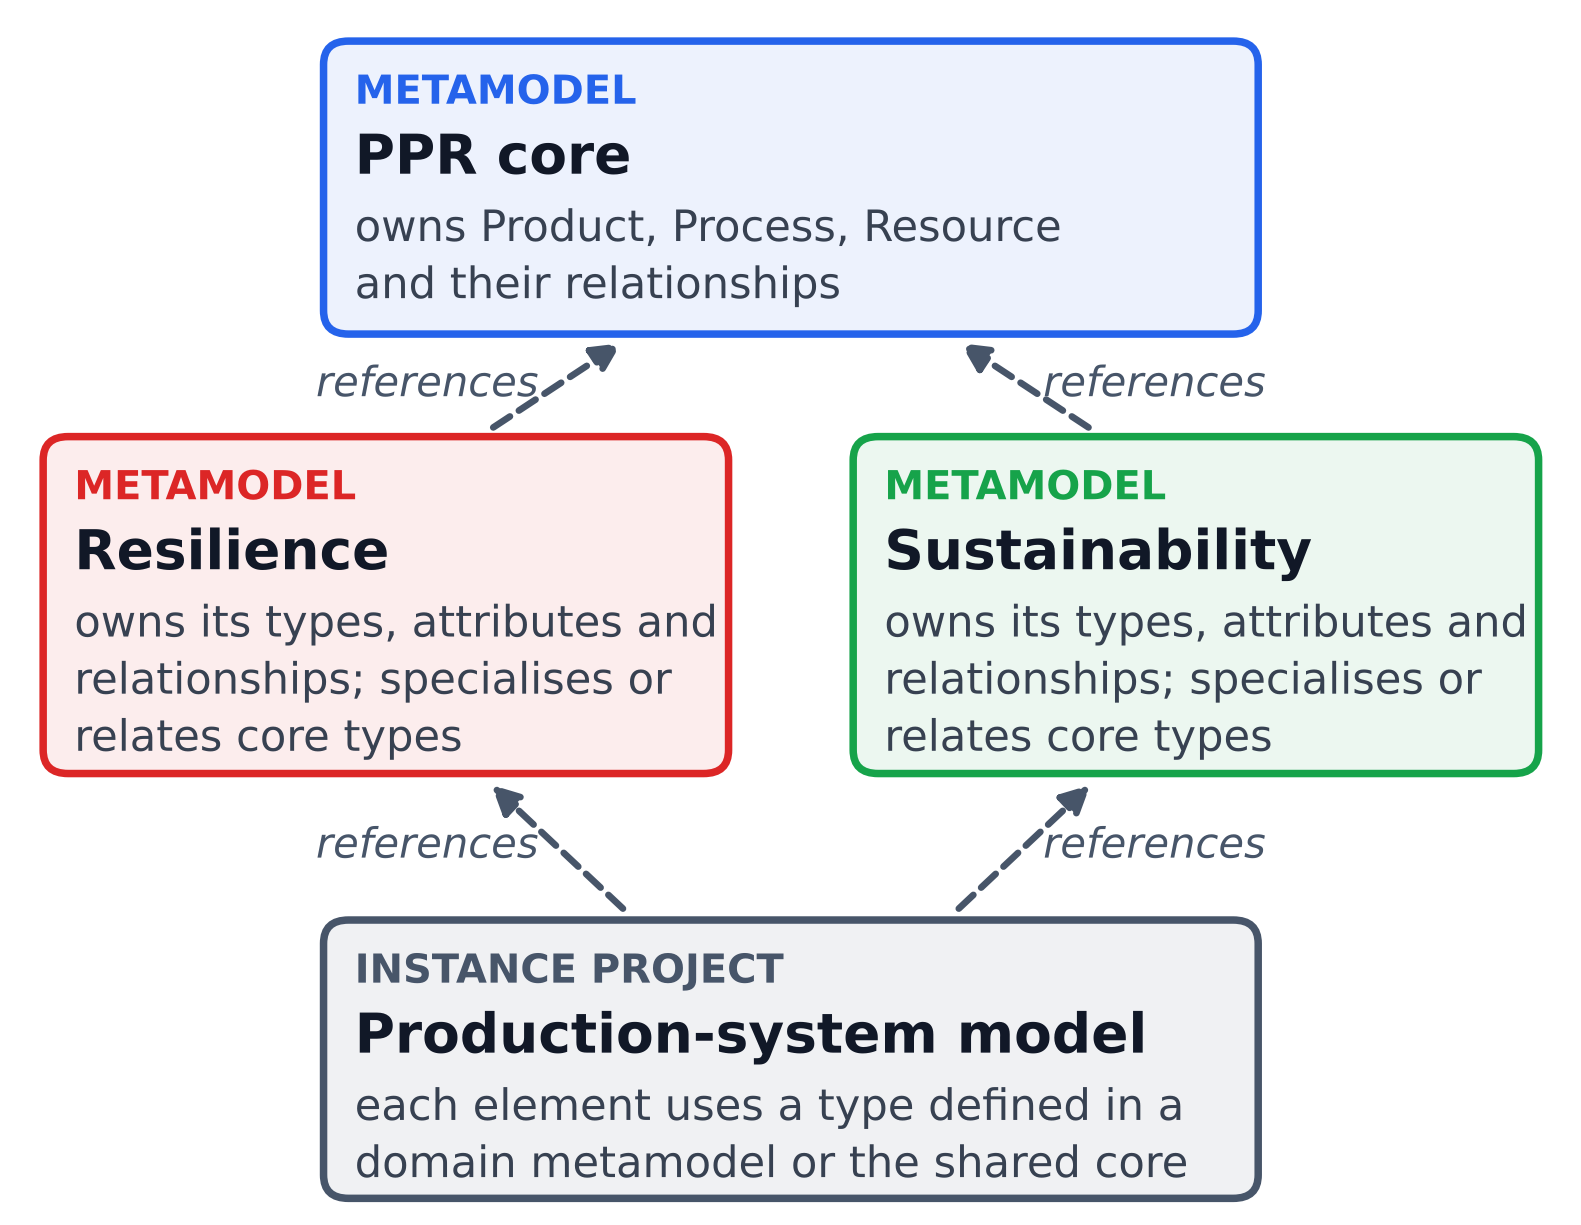
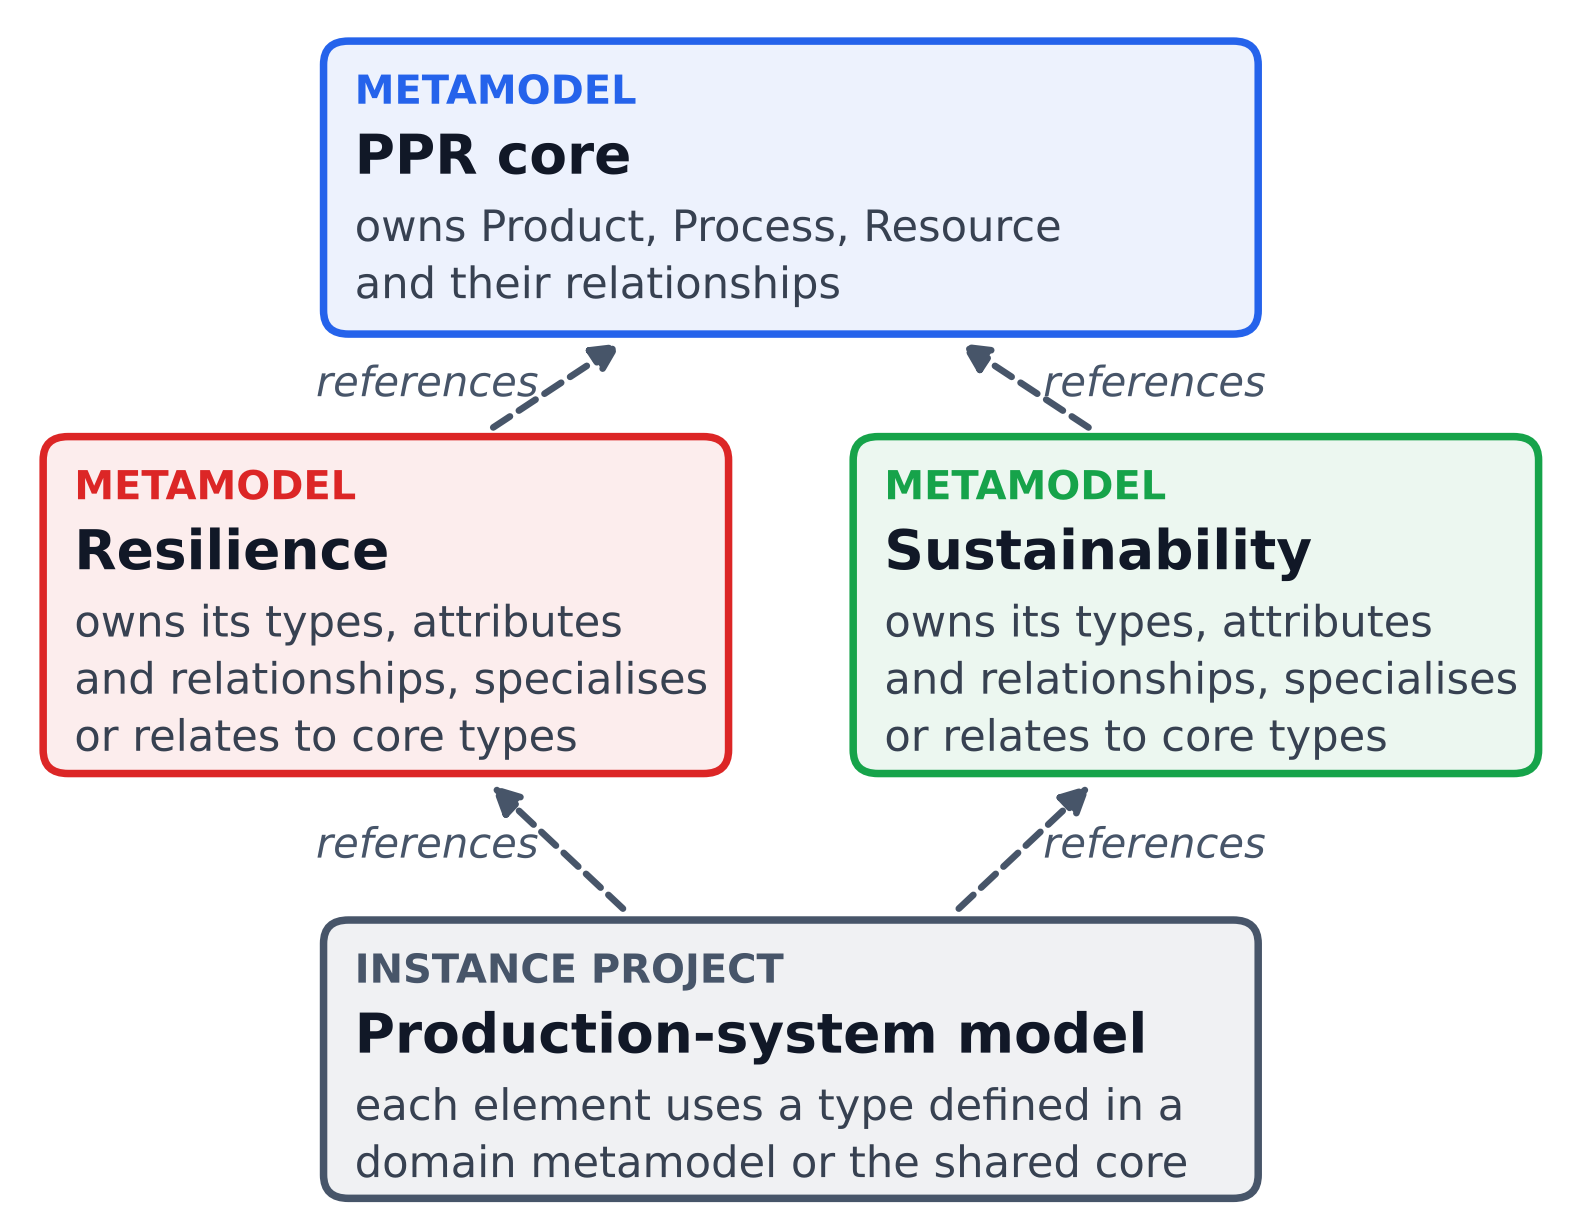
Fig. 1: label wording
Claude-Session: https://claude.ai/code/session_012MAgYUzrBcAtceWZCi2HDc

Changed region(s): [[0.5579, 0.4963, 0.9608, 0.6204], [0.031, 0.4963, 0.4649, 0.6204]]

diff --git a/paper/cirp-cms-2027/make_fig1.py b/paper/cirp-cms-2027/make_fig1.py
@@ -32,9 +32,9 @@ def ref(x0, y0, x1, y1, label, side):
 box(20, 60, 60, 20, BLUE, "METAMODEL", "PPR core",
     ["owns Product, Process, Resource", "and their relationships"])
 box(2, 30, 44, 23, RED, "METAMODEL", "Resilience",
-    ["owns its types, attributes and", "relationships; specialises or", "relates core types"])
+    ["owns its types, attributes", "and relationships, specialises", "or relates to core types"])
 box(54, 30, 44, 23, GREEN, "METAMODEL", "Sustainability",
-    ["owns its types, attributes and", "relationships; specialises or", "relates core types"])
+    ["owns its types, attributes", "and relationships, specialises", "or relates to core types"])
 box(20, 1, 60, 19, GREY, "INSTANCE PROJECT", "Production-system model",
     ["each element uses a type defined in a", "domain metamodel or the shared core"])
 
